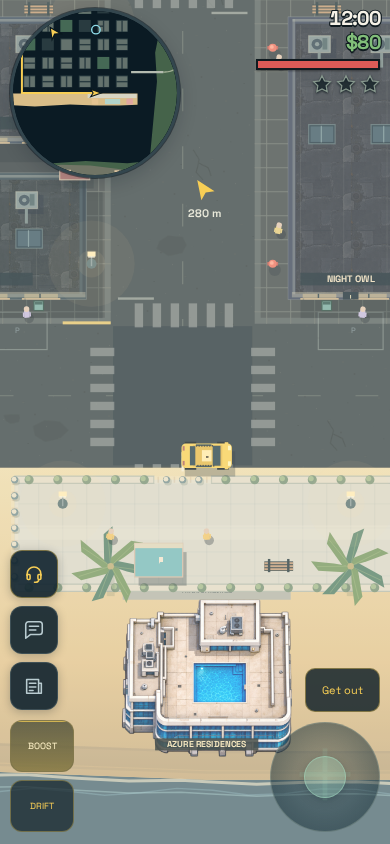
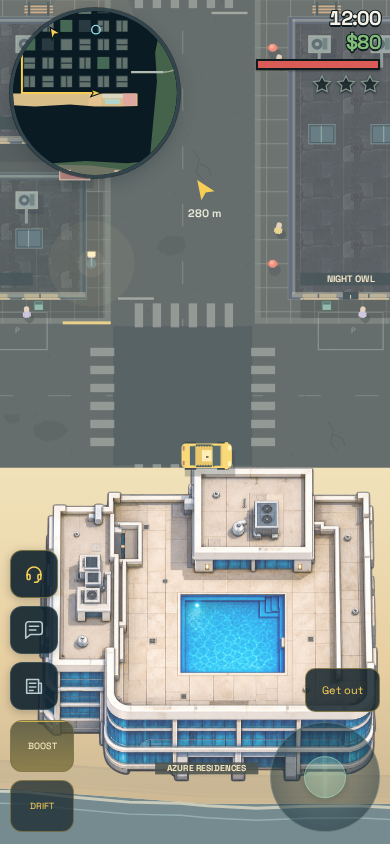
Enlarge beachfront condos over Ocean Walk

Changed region(s): [[0.0, 0.5545, 1.0, 0.9858], [0.3077, 0.0924, 0.3385, 0.1232]]

diff --git a/src/world.ts b/src/world.ts
@@ -5,7 +5,7 @@ import { defaultMap } from './map/default';
 import type { Parking } from './map/schema';
 import { CITY_GRID, CITY_SIZE, citySegmentOpen, type CityBlock, type CityBuilding } from './city';
 import { createCityDetour, type StreetAccess } from './city-navigation';
-import { propArtwork, type PropArtwork } from './artwork/catalogue';
+import { propArtwork, scaleArtwork, type PropArtwork } from './artwork/catalogue';
 import { HARBOUR, PORT_CONTAINERS, PORT_CONNECTIONS, PORT_GATES, SWAP_CONTAINER, inHarbour, onPortRoad, portAccess, portNeighbours, portNode, portPath } from './harbour';
 
 export type PropKind = 'building' | 'tree' | 'hydrant' | 'crate' | 'bench' | 'lamp' | 'kiosk' | 'bin' | 'barrier' | 'shed' | 'barracks' | 'station' | 'pump' | 'rock' | 'guardrail' | 'container' | 'fence' | 'port-gate' | 'lifeguard-tower' | 'parasol' | 'beach-chair' | 'sandcastle' | 'palm' | 'bollard' | 'promenade-edge' | 'pedestrian-gate';
@@ -162,7 +162,7 @@ export class World {
     for (const hotel of BEACH_HOTELS) {
       const prop = this.add('building', hotel.position.x, hotel.position.y, hotel.width, hotel.height, hotel.color, hotel.name);
       prop.sourceId = hotel.id;
-      if (hotel.style === 'luxury-condo') prop.artwork = propArtwork.luxuryCondo;
+      if (hotel.style === 'luxury-condo') prop.artwork = scaleArtwork(propArtwork.luxuryCondo, hotel.width / 14, hotel.height / 13);
     }
     for (const [i, p] of LIFEGUARD_TOWERS.entries()) this.add('lifeguard-tower', p.x, p.y, 4.6, 4.2, ['#9cced1', '#e0b0ba', '#bdd6b0'][i % 3], `LIFEGUARD ${String(i + 1).padStart(2, '0')}`).sourceId = map.document.beach.towers[i].id;
     for (const [i, p] of BEACH_SETS.entries()) {
@@ -174,14 +174,14 @@ export class World {
     for (const gate of PROMENADE_GATES) this.add('pedestrian-gate', gate.position.x, gate.position.y, gate.width, 0.6, '#d8c4a1', '', gate.angle);
     for (const p of PROMENADE_BOLLARDS) this.add('bollard', p.x, p.y, 0.6, 0.6, '#758e8b');
     for (const x of [-6, 16, 44, 100]) this.add('palm', x, 247.8, 0.8, 0.8, '#547f66');
-    const walkX = (x: number) => PROMENADE.left + (x - 146) * (PROMENADE.right - PROMENADE.left) / 106;
-    for (const x of [154, 174, 194, 214, 244]) this.add('palm', walkX(x), PROMENADE.bottom - 1.8, 0.8, 0.8, '#547f66');
-    for (const x of [150, 174, 194, 214, 248]) this.add('lamp', walkX(x), PROMENADE.top + 2, 0.6, 0.6, '#a7bfbb');
-    for (const x of [168, 208, 228]) this.add('bench', walkX(x), PROMENADE.bottom - 1.8, 2.4, 0.75, '#c29b76');
-    this.add('kiosk', walkX(158), PROMENADE.bottom - 2.3, 4, 2.8, '#76b9b6', 'SURF / RENTALS');
-    this.add('kiosk', walkX(202), PROMENADE.bottom - 2.3, 4, 2.8, '#d9a578', 'JUICE / COFFEE');
+    const walkX = (fraction: number) => PROMENADE.left + fraction * (PROMENADE.right - PROMENADE.left);
+    for (const fraction of [0.4, 0.6, 0.84]) this.add('palm', walkX(fraction), PROMENADE.bottom - 1.7, 0.8, 0.8, '#547f66');
+    for (const fraction of [0.16, 0.4, 0.6, 0.84]) this.add('lamp', walkX(fraction), PROMENADE.top + 1.5, 0.6, 0.6, '#a7bfbb');
+    for (const fraction of [0.33, 0.67]) this.add('bench', walkX(fraction), PROMENADE.bottom - 1.6, 2.4, 0.75, '#c29b76');
+    this.add('kiosk', walkX(0.23), PROMENADE.bottom - 2.2, 4, 2.8, '#76b9b6', 'SURF / RENTALS');
+    this.add('kiosk', walkX(0.77), PROMENADE.bottom - 2.2, 4, 2.8, '#d9a578', 'JUICE / COFFEE');
     const beachRandom = this.random; this.random = seeded(1965);
-    for (const x of [154, 162, 178, 186, 198, 218, 232, 244]) this.addPerson(vec(walkX(x), (PROMENADE.top + PROMENADE.bottom) / 2), 'civilian', ['#df8976', '#78b9c0', '#efc468'][Math.floor(this.random() * 3)]);
+    for (const fraction of [0.15, 0.25, 0.35, 0.45, 0.55, 0.65, 0.75, 0.85]) this.addPerson(vec(walkX(fraction), (PROMENADE.top + PROMENADE.bottom) / 2), 'civilian', ['#df8976', '#78b9c0', '#efc468'][Math.floor(this.random() * 3)]);
     for (const x of [-8, 20, 64, 88, 110]) this.addPerson(vec(x, 253), 'civilian', '#dcaa84');
     this.random = beachRandom;
   }

diff --git a/src/beach.test.ts b/src/beach.test.ts
@@ -38,9 +38,10 @@ describe('southern beach geography and access', () => {
     expect([...g.world.hash.query(pickup.body)].some(p => contact(pickup.body, p.body))).toBe(false);
     for (const hotel of BEACH_HOTELS) {
       const prop = g.world.props.find(p => p.label === hotel.name)!;
-      expect(prop.body.position.y - prop.body.h / 2).toBeGreaterThan(256);
+      expect(prop.body.position.y - prop.body.h / 2).toBeGreaterThanOrEqual(246);
       expect(prop.body.corners().every(p => inBeach(p) && !onPromenade(p) && !inOcean(p))).toBe(true);
       expect(g.world.props.some(p => p !== prop && p.alive && contact(p.body, prop.body))).toBe(false);
+      if (hotel.style === 'luxury-condo') expect(prop.body.w * prop.body.h).toBe(4 * 14 * 13);
     }
   });
   it('routes western sand, eastern sand and promenade walkers to the city and woods on dry land', () => {
@@ -56,9 +57,9 @@ describe('southern beach geography and access', () => {
     }
   });
   it('approaches eastern sand from the street with vehicle clearance, rather than clipping promenade edges', () => {
-    const g = new Game(), from = vec(140, 240), target = vec(170, 256.7);
+    const g = new Game(), from = vec(140, 240), target = vec(180, 256.7);
     const path = roadPath(from, target);
-    expect(path.at(-1)).toEqual(vec(170, 240));
+    expect(path.at(-1)).toEqual(vec(180, 240));
     for (let i = 1; i < path.length; i++) {
       const a = path[i - 1], b = path[i], steps = Math.ceil(dist(a, b) / 0.2);
       for (let j = 0; j <= steps; j++) {
@@ -71,7 +72,7 @@ describe('southern beach geography and access', () => {
   });
   it('routes walkers around hotel podiums through real entrances with full body clearance', () => {
     const g = new Game();
-    for (const from of [vec(170, 256.7), vec(200, 270.5), vec(237, 270.45), vec(180.675, 265)]) {
+    for (const from of [vec(180.675, 272.6), vec(200, 270.5), vec(237, 272.6), vec(220.675, 265)]) {
       const path = roadPath(from, vec(200, 240), 'walk');
       for (let i = 1; i < path.length; i++) {
         const a = path[i - 1], b = path[i], steps = Math.ceil(dist(a, b) / 0.15);

diff --git a/src/buildings.ts b/src/buildings.ts
@@ -1,4 +1,4 @@
-import { appearanceSeed, propArtwork, type PropArtwork } from './artwork/catalogue';
+import { appearanceSeed, propArtwork, scaleArtwork, type PropArtwork } from './artwork/catalogue';
 import { vec, type Vec } from './physics';
 
 export type BuildingSign = Readonly<{ width: number; inset: number; size: number; color: string }>;
@@ -43,13 +43,7 @@ export function compileBuilding(placement: BuildingPlacement<string>, catalogue:
   const width = placement.width ?? definition.width, height = placement.height ?? definition.height;
   if ([definition.width, definition.height, width, height].some(n => !Number.isFinite(n) || n <= 0)) throw new Error(`Building ${placement.id}: invalid footprint`);
   const selected = definition.artwork?.[appearanceSeed(placement.id) % definition.artwork.length];
-  const artwork = selected ? structuredClone(selected) : undefined;
-  if (artwork && (width !== definition.width || height !== definition.height)) {
-    const sx = width / definition.width, sy = height / definition.height;
-    const scale = (p: Vec) => vec(p.x * sx, p.y * sy);
-    const b = artwork.bounds;
-    Object.assign(artwork, { bounds: { x: b.x * sx, y: b.y * sy, width: b.width * sx, height: b.height * sy }, silhouette: artwork.silhouette.map(scale), occluder: artwork.occluder?.map(scale) });
-  }
+  const artwork = selected ? scaleArtwork(selected, width / definition.width, height / definition.height) : undefined;
   const { sign, replaceBlock, ...instance } = structuredClone(placement);
   return { ...instance, width, height, storeys: placement.storeys ?? definition.storeys, artwork,
     presentation: { fallback: definition.presentation.fallback, sign: { ...definition.presentation.sign, ...placement.sign } },

diff --git a/src/beach-renderer.ts b/src/beach-renderer.ts
@@ -62,13 +62,14 @@ export function drawBeachGround(r: Renderer) {
     for (let y = PROMENADE.top + 2; y < PROMENADE.bottom; y += 2) r.rect(x, y, 2, 0.035, '#9caaa757');
   }
   r.rect(PROMENADE.left, (PROMENADE.top + PROMENADE.bottom) / 2 - 0.7, PROMENADE.right - PROMENADE.left, 1.2, '#eee7d14a');
-  label(r, 'O C E A N   W A L K', PROMENADE.left + 38, (PROMENADE.top + PROMENADE.bottom) / 2, 1, '#647d7a', '700');
-  label(r, 'PEDESTRIANS ONLY', PROMENADE.right - 20, (PROMENADE.top + PROMENADE.bottom) / 2, 0.67, '#647d7a', '700');
+  const walkCenter = (PROMENADE.left + PROMENADE.right) / 2;
+  label(r, 'O C E A N   W A L K', walkCenter, (PROMENADE.top + PROMENADE.bottom) / 2, 0.9, '#647d7a', '700');
+  label(r, 'PEDESTRIANS ONLY', walkCenter, PROMENADE.top + 1.2, 0.55, '#647d7a', '700');
   for (const x of PROMENADE_ENTRIES) {
     path(r, [vec(x, PROMENADE.top - 2.3), vec(x, PROMENADE.top - 0.7)], '#f4ebcf', 0.2);
     r.circle(vec(x, PROMENADE.top - 1.9), 0.15, '#718984');
   }
-  for (const hotel of BEACH_HOTELS) {
+  for (const hotel of BEACH_HOTELS.filter(h => h.style !== 'luxury-condo')) {
     const front = hotel.position.y - hotel.height / 2;
     r.rect(hotel.position.x - hotel.width / 2, front - 1.3, hotel.width, 1.3, '#b4b4a4');
     label(r, 'PRIVATE FRONTAGE', hotel.position.x, front - 0.7, 0.48, '#6d7772', '700');

diff --git a/src/artwork/catalogue.test.ts b/src/artwork/catalogue.test.ts
@@ -64,12 +64,14 @@ describe('top-down artwork geometry', () => {
   it('gives two beachfront condos the supplied roof while keeping the remaining hotel procedural', () => {
     const beachBuildings = new World().props.filter(p => p.kind === 'building' && p.sourceId?.startsWith('hotel-'));
     expect(beachBuildings).toHaveLength(3);
-    const condos = beachBuildings.filter(p => p.artwork === propArtwork.luxuryCondo);
+    const condos = beachBuildings.filter(p => p.artwork?.image === propArtwork.luxuryCondo.image);
     expect(condos.map(p => p.label)).toEqual(['AZURE RESIDENCES', 'OCEAN CREST CONDOS']);
     for (const condo of condos) {
-      expect([condo.body.w, condo.body.h]).toEqual([14, 13]);
+      expect([condo.body.w, condo.body.h]).toEqual([28, 26]);
+      expect([condo.artwork?.bounds.width, condo.artwork?.bounds.height]).toEqual([28.6, 26.6]);
+      expect(condo.artwork?.castsShadow).toBe(false);
       const renamed = { ...condo, label: 'RENAMED', sourceId: 'another-site' };
-      expect(artworkFor(renamed)).toBe(propArtwork.luxuryCondo);
+      expect(artworkFor(renamed)).toBe(condo.artwork);
     }
     expect(artworkFor(beachBuildings[1])).toBeUndefined();
     expect(beachBuildings[1].label).toBe('PACIFIC PALM HOTEL');

diff --git a/src/beach.ts b/src/beach.ts
@@ -31,11 +31,11 @@ function beachAccessPath(p: Vec): Vec[] {
     const entry = PROMENADE_ENTRIES.reduce((a, b) => Math.abs(a + 0.675 - p.x) < Math.abs(b + 0.675 - p.x) ? a : b) + 0.675;
     return [p, vec(entry, p.y), vec(entry, 240)];
   }
-  if (p.x >= PROMENADE.left && p.y >= PROMENADE.top) {
+  if (p.x >= PROMENADE.left - 30 && p.y >= PROMENADE.top) {
     if (p.x > PROMENADE.right && p.y < PROMENADE.bottom + 1.6) return [p, vec(p.x, 244), vec(240, 244), vec(240, 240)];
     const entry = PROMENADE_SOUTH_ENTRIES.reduce((a, b) => Math.abs(a + 0.675 - p.x) < Math.abs(b + 0.675 - p.x) ? a : b) + 0.675;
     // Walk along the front apron or the remaining surf strip, then through a
-    // genuine gap between the hotels. Never route through a hotel podium.
+    // genuine gap between the buildings. Never route through a podium.
     const inGap = BEACH_HOTELS.every(h => p.x < h.position.x - h.width / 2 - 0.4 || p.x > h.position.x + h.width / 2 + 0.4);
     const y = p.y < PROMENADE.bottom + 1.6 || inGap ? p.y : Math.max(p.y, Math.max(...BEACH_HOTELS.map(h => h.position.y + h.height / 2)) + 0.45);
     return [p, vec(p.x, y), vec(entry, y), vec(entry, 240)];

diff --git a/src/coast.test.ts b/src/coast.test.ts
@@ -27,10 +27,12 @@ describe('coastal geography', () => {
     expect(rails.length).toBe(COAST_RAILS.length);
     expect(rails.every(p => p.hp === 24 && p.body.w <= 8)).toBe(true);
     expect(world.props.filter(p => p.kind === 'building').every(p => !!p.label)).toBe(true);
-    // No solid contact in the middle of the first open section on each edge.
+    // No solid contact in representative open sections on each edge. The
+    // southern sample passes through Ocean Walk's remaining central corridor.
     for (const [a, b] of [[vec(-14, -14), vec(254, -14)], [vec(254, -14), vec(254, 254)], [vec(254, 254), vec(-14, 254)], [vec(-14, 254), vec(-14, -14)], [HIGHLAND_OUTLINE[1], HIGHLAND_OUTLINE[2]]]) {
       const n = Math.ceil(dist(a, b) / 8), t = 4 / n;
-      const probe = new Body(a.x + (b.x - a.x) * t, a.y + (b.y - a.y) * t, 1, 0.7, 0.7);
+      const sample = a.y === 254 && b.y === 254 ? vec(200, 254) : vec(a.x + (b.x - a.x) * t, a.y + (b.y - a.y) * t);
+      const probe = new Body(sample.x, sample.y, 1, 0.7, 0.7);
       expect([...world.hash.query(probe)].filter(p => contact(probe, p.body))).toEqual([]);
     }
   });

diff --git a/src/artwork/catalogue.ts b/src/artwork/catalogue.ts
@@ -32,6 +32,17 @@ const shops = [propArtwork.shop, propArtwork.shopRust, propArtwork.shopConcrete]
 const trees = Array.from({ length: 4 }, (_, i) => ({ ...propArtwork.tree, rotation: i * Math.PI / 2 }));
 export const asphaltArtwork = { image: 'asphalt', layer: 'ground', tileMetres: 48 } as const;
 
+/** Keep an image, its sun silhouette and its light blocker aligned to one footprint. */
+export function scaleArtwork(art: PropArtwork, sx: number, sy: number): PropArtwork {
+  const point = (p: Vec) => vec(p.x * sx, p.y * sy), b = art.bounds;
+  return {
+    ...art,
+    bounds: { x: b.x * sx, y: b.y * sy, width: b.width * sx, height: b.height * sy },
+    silhouette: art.silhouette.map(point),
+    occluder: art.occluder?.map(point),
+  };
+}
+
 /** Appearance uses stable identity, never the simulation's random stream or display labels. */
 export function appearanceSeed(identity: string): number {
   let seed = 2166136261;

diff --git a/docs/beach.md b/docs/beach.md
@@ -3,8 +3,9 @@
 A 296 m sandy shoreline extends the south side of the city. The western beach is
 open and informal, with a volleyball court, pastel lifeguard huts, colourful beach
 setups and sand castles. Heading east, the shore narrows into a tiled, palm-lined
-promenade behind two 12/16-storey luxury condos and the 14-storey Pacific Palm
-Hotel. Their podiums occupy the actual sand between the promenade and surf;
+promenade between two 12/16-storey luxury condos and the 14-storey Pacific Palm
+Hotel. The condos extend across the former side sections of Ocean Walk, while
+their podiums occupy the sand toward the surf;
 rooftop pools, penthouses and private frontage make the beach appropriation visible.
 Public access survives in the gaps between buildings. Surf rentals, cafés, palms,
 benches and strolling pedestrians occupy the public promenade.
@@ -15,7 +16,9 @@ The existing south street provides access and fare pickup/drop-off points.
 The Sandpiper and Ocean Sunset Suites plots now hold Azure Residences and Ocean
 Crest Condos. Both use Lorenzo's supplied straight-overhead transparent condo
 PNG, cropped at render time without altering the original file. Each has a
-14 × 13 m physical footprint on dry sand; the original hotel IDs stay stable in
+28 × 26 m physical footprint—four times the previous area—on dry sand and the
+former side sections of Ocean Walk. The public walkway remains between the two
+condos. The original hotel IDs stay stable in
 the versioned map, and Pacific Palm Hotel keeps its name and fare stop. An
 optional `style` field on beachfront building placements selects the sprite,
 so older map documents still load and names do not control appearance. Failed
